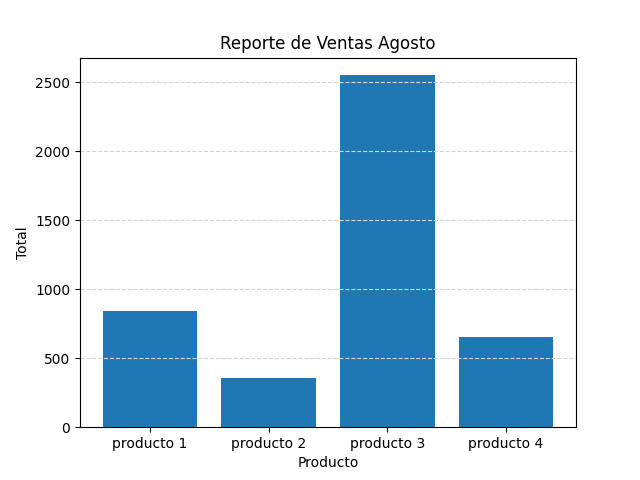
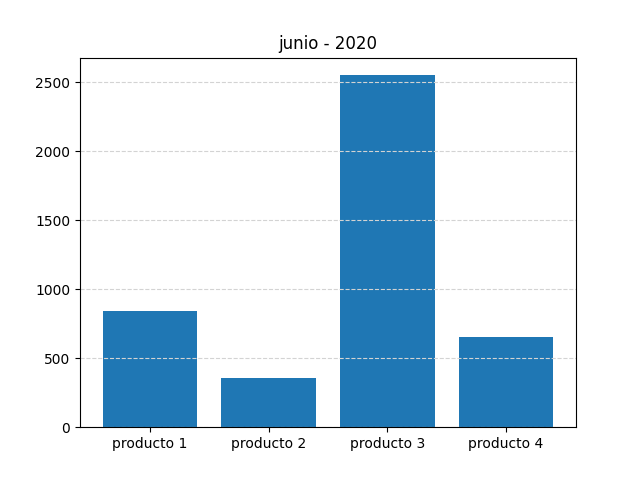
grafica pie
elaboracion de grafica pie con sus validaciones

Changed region(s): [[0.3438, 0.0625, 0.6875, 0.125], [0.4688, 0.9375, 0.5625, 0.9688], [0.0312, 0.4688, 0.0625, 0.5312]]

diff --git a/src/main.py b/src/main.py
@@ -198,14 +198,14 @@ def analizar():
             grafica=grafica.strip()
             plt.rcdefaults()
 
-            if grafica == 'barras':
-                if titulo ==None:
-                    pass          
-                if tituloX == None:
-                    pass
-                if tituloY ==None:
-                    pass
+            if titulo ==None or titulo =="":
+                titulo=fecha[0]+ " - " + str(fecha[1])       
+            if tituloX == None or tituloX == "":
+                pass
+            if tituloY ==None or tituloY == "":
+                pass
 
+            if grafica == 'barras':
                 grB, adB = plt.subplots()
                 adB.bar(ejeX, ejeY) # Datos de la grafica
                 adB.set_xlabel(tituloX) #titulos
@@ -225,7 +225,13 @@ def analizar():
                 plt.show()
 
             elif grafica == 'pie' or grafica == 'pastel' or grafica == 'gráfico de pastel' or grafica == 'grafico de pastel':
-                print('grafica pie')
+                grP, adP = plt.subplots()
+                adP.pie(ejeY, labels=ejeX, autopct='%1.1f%%',
+                shadow=True, startangle=90)
+                adP.axis('equal')
+                adP.set_title(titulo)
+                grP.savefig(nombre)
+                plt.show()
             else:
                 print('ERROR: *** Grafica no Disponible ***')
 
